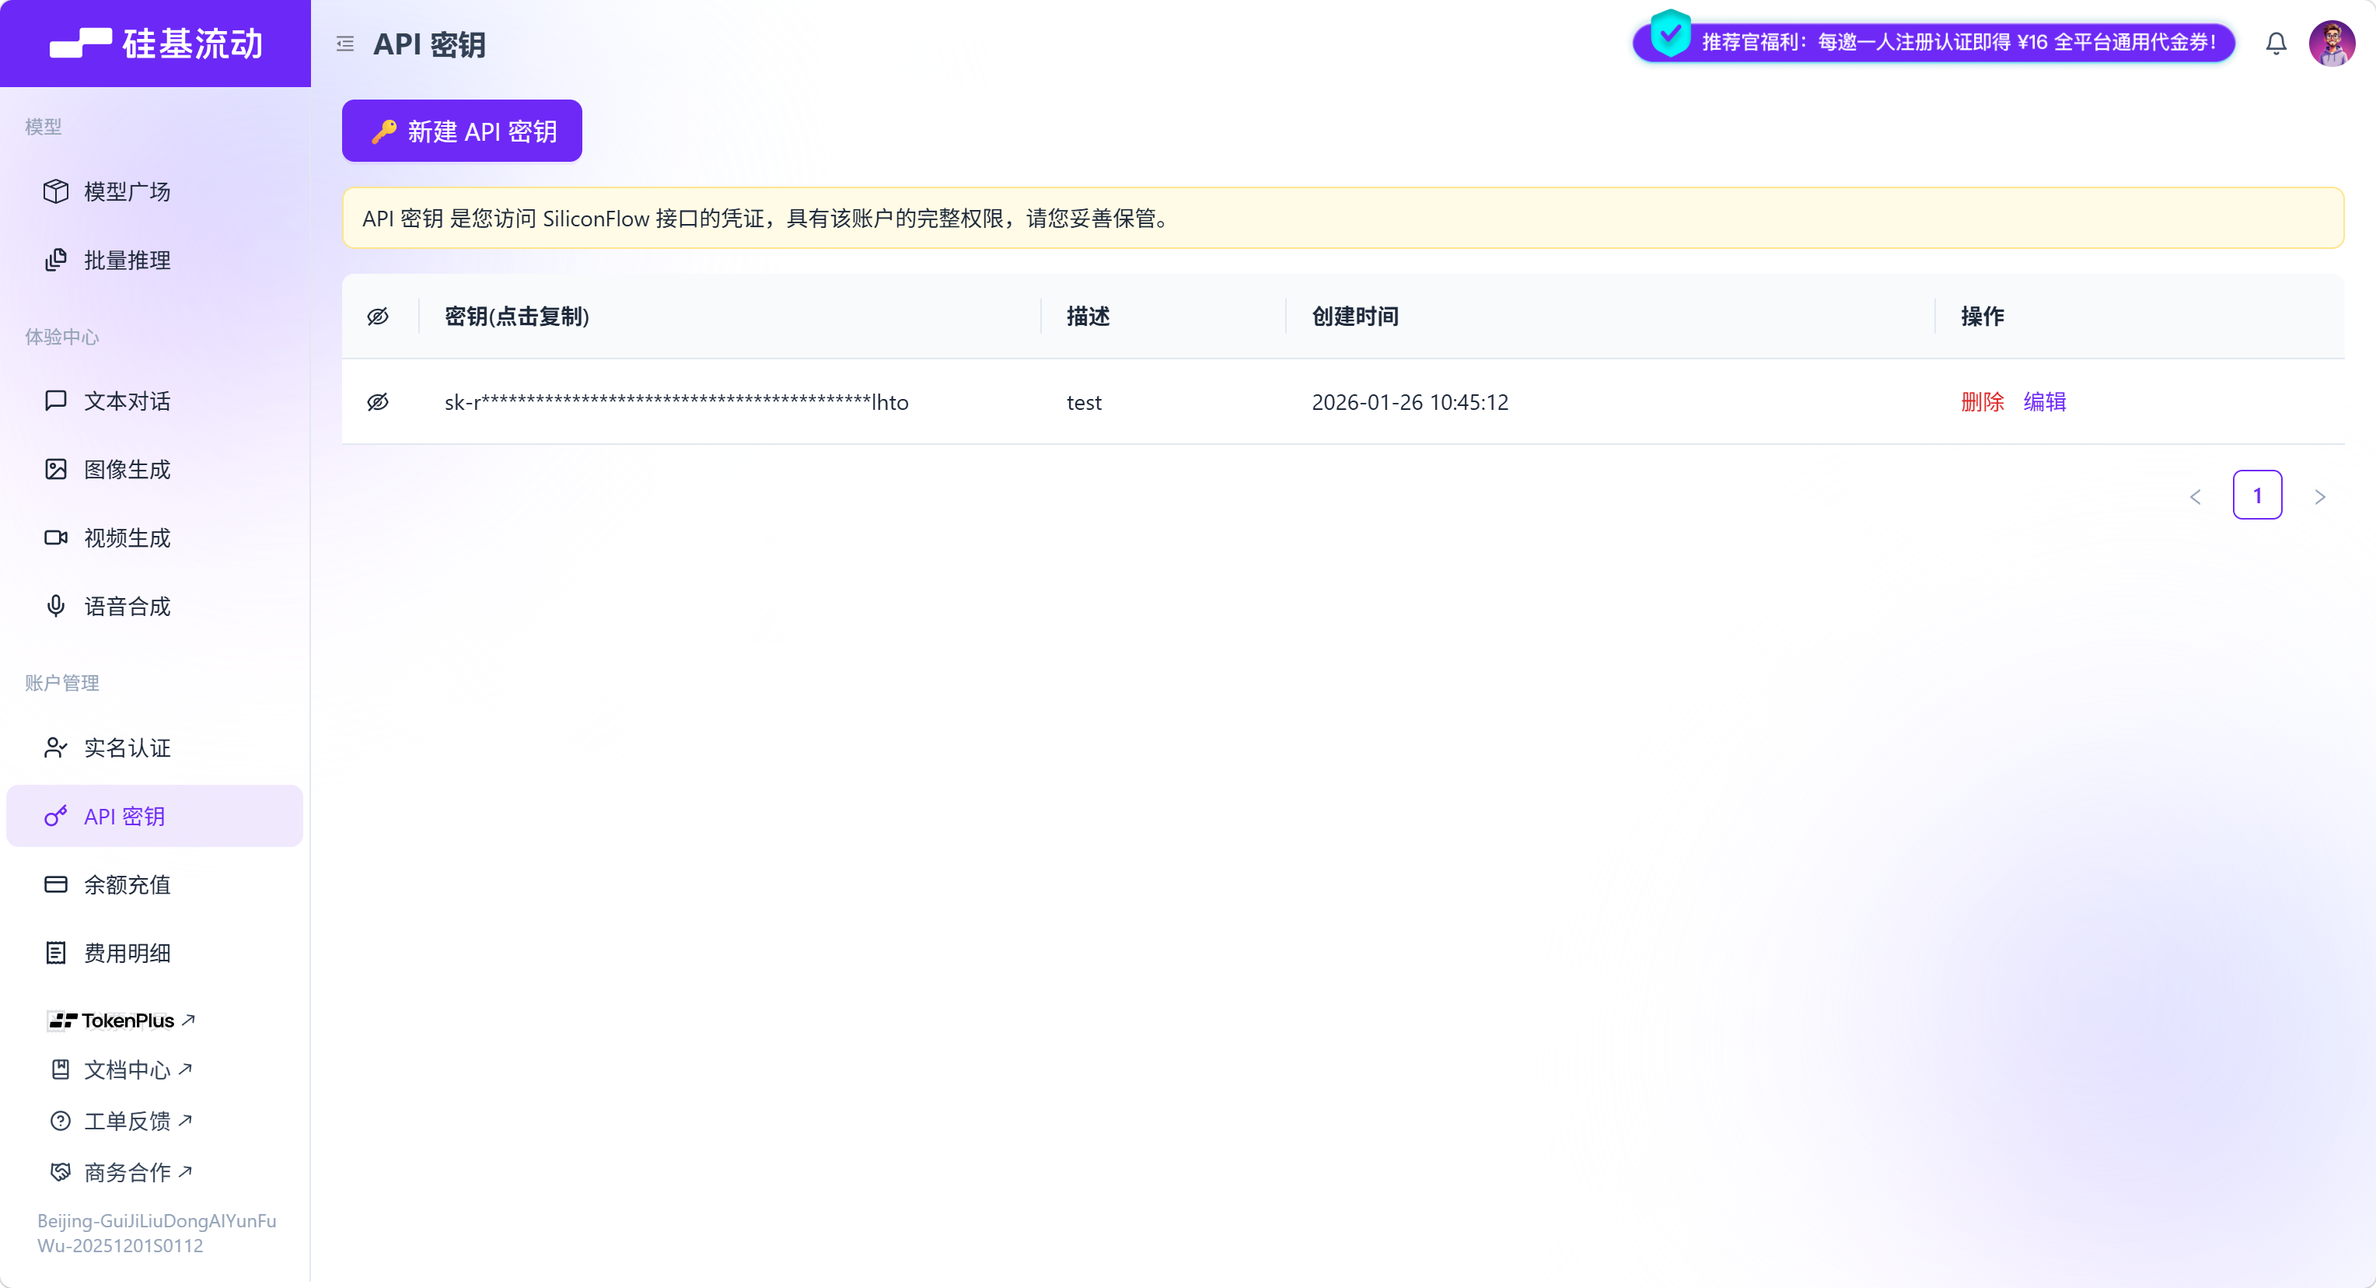
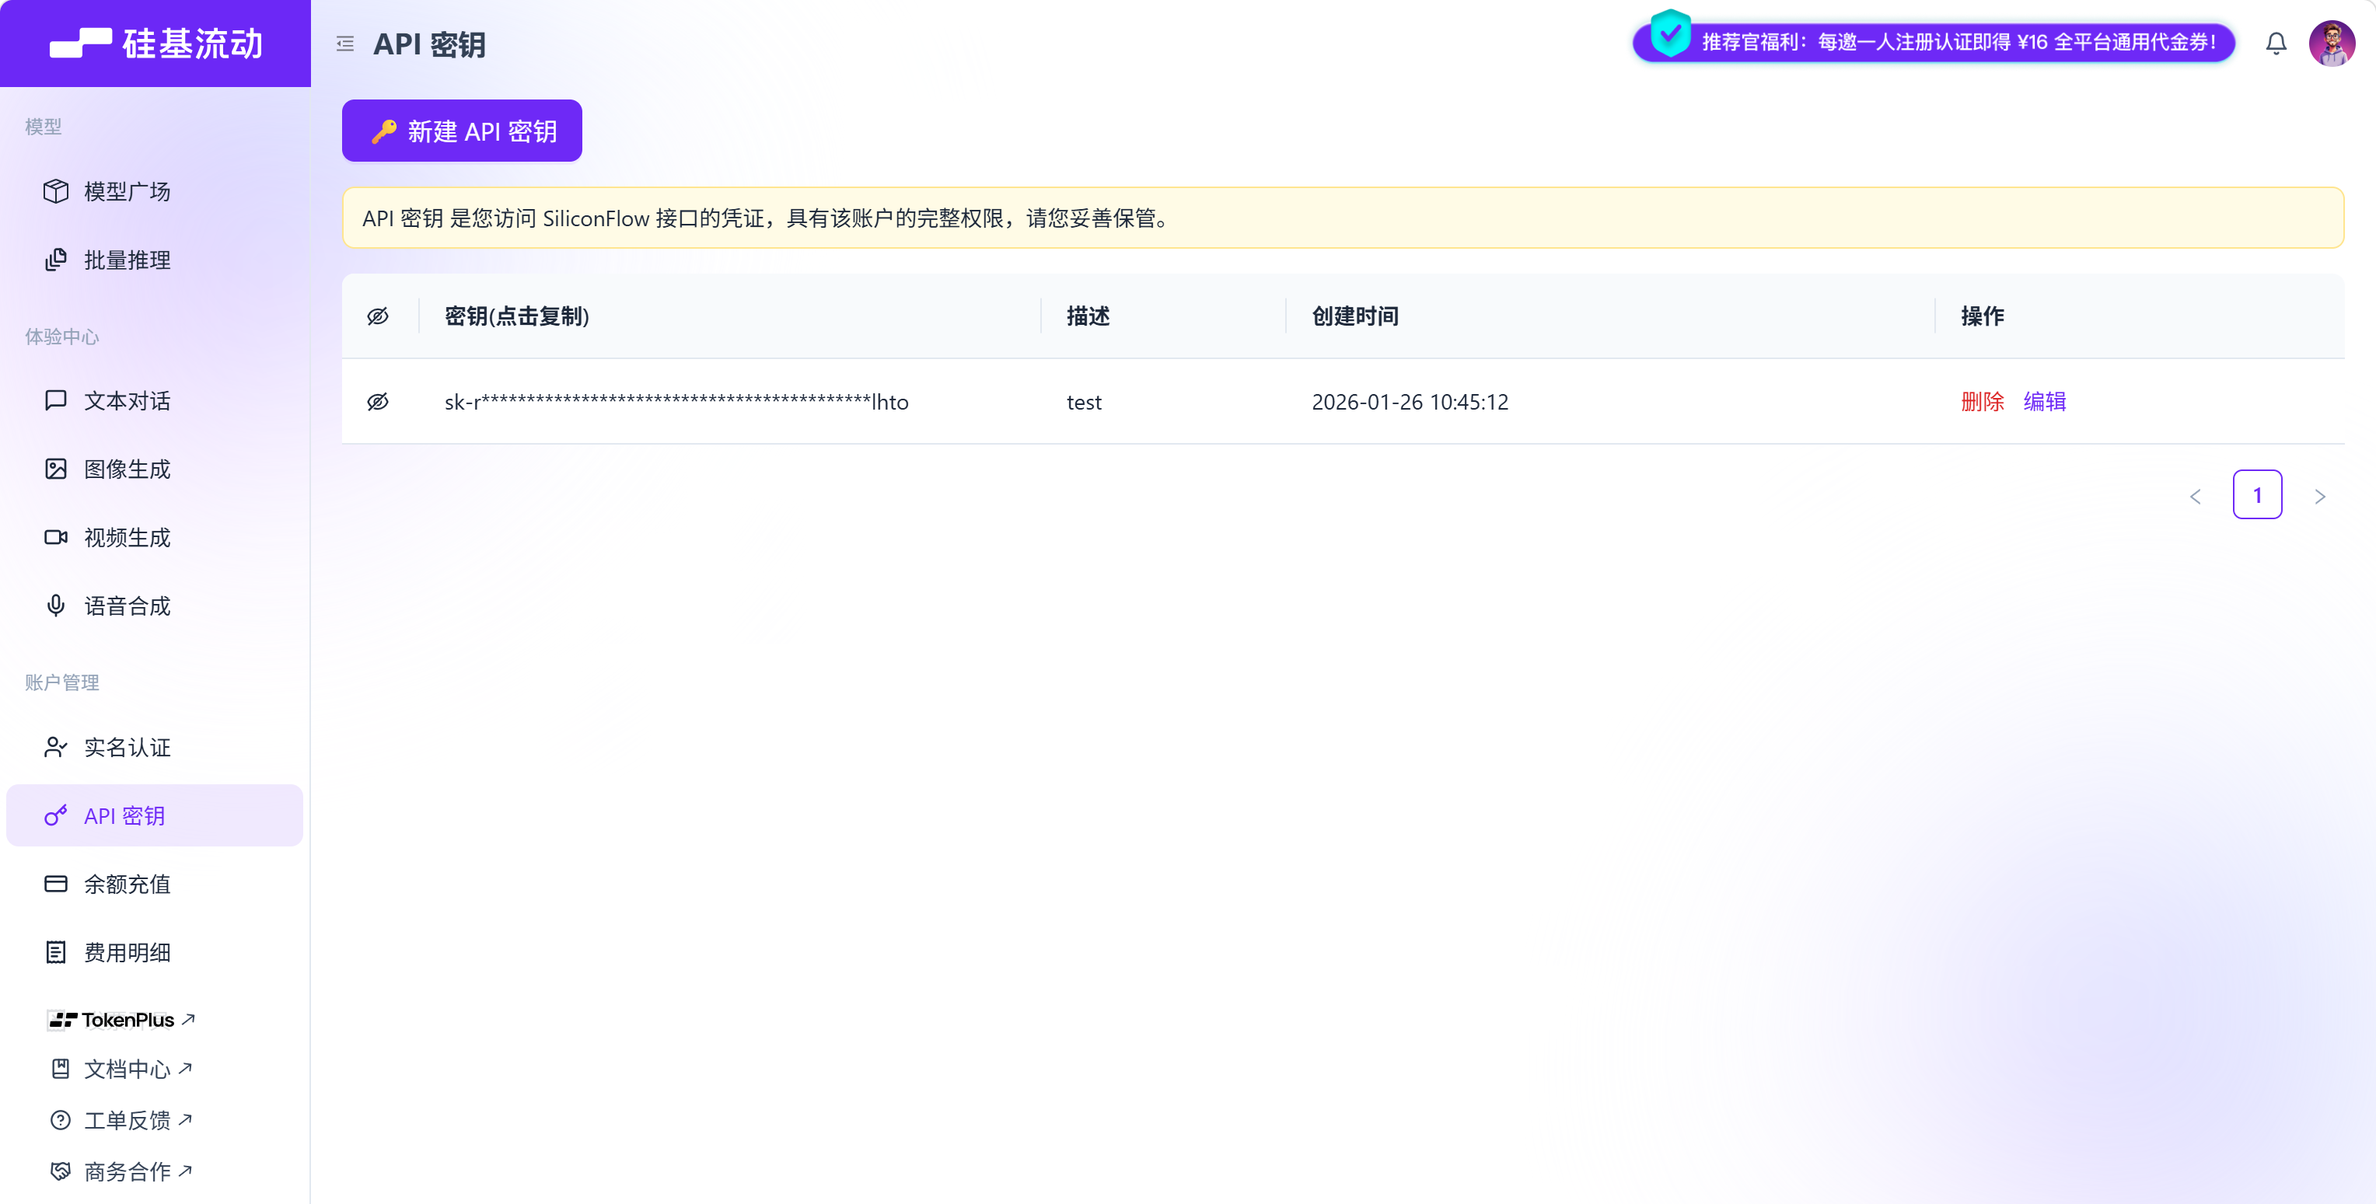
fix(teleai): 模型 id 勘误为 Xing4.1-Preview，核实 0 元购 10 亿资源包并统一额度口径
- seed teleai-xing: auto 改指 Xing4.1-Preview（74 次成功调用实证 API id 无 "1"），model_quota 面额 11 亿 = 免费 1 亿 + 0 元购 10 亿；测试断言同步
- 文档口径统一：手册 4.12、免费额度总览（实到 ≈11.5 亿 / 领满 ≈16.6 亿）、官网核实表、模式对照表、接入记录、PROGRESS 勘误行
- 全景 PPT 数字重算：22/18 家、删 SCNet 行、teleAI 行改 11 亿 + 1 亿/模型（30 天有效）、安装包 1.0.1、测试数 1403
- 裁剪硅基流动密钥页截图底部账号归属名

diff --git a/tests/test_planrouter_seed.py b/tests/test_planrouter_seed.py
@@ -32,8 +32,8 @@ class SeedConfigTests(unittest.TestCase):
                      "anthropic-template", "openai-embeddings"):
             self.assertFalse(by_name[name].enabled, name)
         # one-time allowance packs survive the config round-trip
-        xing = by_name["teleai-xing"].model_quota["Xing4.0-29B"]
-        self.assertEqual(xing.tokens, 100000000)
+        xing = by_name["teleai-xing"].model_quota["Xing4.1-Preview"]
+        self.assertEqual(xing.tokens, 1100000000)
         self.assertEqual(xing.period, "total")
         self.assertEqual(config.routes["openai:default"].channels,
                          ("nvidia-nim", "siliconflow"))

diff --git a/src/facet/gateway/seed.py b/src/facet/gateway/seed.py
@@ -83,8 +83,8 @@ def build_seed() -> dict:
                 "api_key": "env:CTYUN_APP_KEY",
                 "enabled": False,
                 "tier": "free",
-                "models": {"auto": "Xing4.0-29B"},
-                "model_quota": {"Xing4.0-29B": {"tokens": 100000000}},
+                "models": {"auto": "Xing4.1-Preview"},
+                "model_quota": {"Xing4.1-Preview": {"tokens": 1100000000}},
             },
             {
                 "name": "openai-embeddings",

diff --git a/docs/demo-video-script.md b/docs/demo-video-script.md
@@ -25,7 +25,7 @@
 
 | 步 | 操作 | 目的 |
 |---|---|---|
-| A1 | 双击 `Facet-Setup-1.0.0.exe` 完成全新安装（这步留给镜头 2 正式录；先用另一份安装包装好练手环境也可以，但正式片用全新安装实录） | — |
+| A1 | 双击 `Facet-Setup-1.0.1.exe` 完成全新安装（这步留给镜头 2 正式录；先用另一份安装包装好练手环境也可以，但正式片用全新安装实录） | — |
 | A2 | 向导配好 **2–3 个可用渠道**（至少 2 个当场测通；选 1 个稳定的当「主力」，1 个当「替身」） | 镜头 4 切换的底气 |
 | A3 | 用 Codex（接好 Facet）正常跑 **3–5 轮对话** | 攒请求记录、额度台账 |
 | A4 | 自维护页 → 「立即体检」跑一次，出第一份报告 | 镜头 6 的报告 |
@@ -45,7 +45,7 @@
 |---|---|
 | 「Facet，一枚薅免费 token 的神器」起手 | 封面停 2–3 秒（主标题即这句） |
 | 「先把免费额度一次说清楚」 | 目录页 |
-| 「总量先看」 | 数字总览（19/23 家、≈5300 万、40+） |
+| 「总量先看」 | 数字总览（18/22 家、≈11.5 亿、40+） |
 | 「第一类，注册就送」 | 一次性表 → 念「火山 2500 万」翻火山 11.11 截图 → 念「腾讯 34 个模型」翻 TokenHub 体验包截图 |
 | 「第二类，每天刷新」 | 每日循环表 → 魔搭签到截图 |
 | 「第三类最香」 | 长期免费模型表 → OpenCode 免费模型截图 |
@@ -55,8 +55,8 @@
 **口播**（约 340 字，约 1 分 15 秒）：
 
 > Facet，一枚薅免费 token 的神器。先把免费额度一次说清楚：火山引擎、腾讯、魔搭……家家都在送，政策五花八门。我整理成一张全景图，分四类。
-> 总量先看：23 家里 19 家在送，按到手口径合计 5300 万 tokens，领满约 2.6 亿，还有 40 多个长期免费模型。
-> 第一类，注册就送。火山 2500 万实打实；腾讯 34 个模型每个 100 万。有的宣传页写 1 亿，到手只有零头，还有的只能用它家客户端——这种我就不打广告了。宣传和到手，是两回事。
+> 总量先看：22 家里 18 家在送，按实到口径合计约 11.5 亿 tokens，领满约 16.6 亿，还有 40 多个长期免费模型。
+> 第一类，注册就送。火山 2500 万实打实；腾讯 34 个模型每个 100 万。还有的只能用它家客户端、API 接不进来——这种我就不打广告了。宣传和到手，是两回事。
 > 第二类，每天刷新：LLM7 一天十万，魔搭签到 250 魔粒——前提是先绑阿里云。
 > 第三类最香，一批永久免费的模型，轻度使用基本不花钱。
 > 第四类是代金券：Kimi 送 15 块、小米送 10 块，真金白银。
@@ -74,7 +74,7 @@
 
 ## 镜头 2 · 一键安装 + 新手向导（1:00–1:45）
 
-**画面**：资源管理器双击 `Facet-Setup-1.0.0.exe` → 安装完成 → 开始菜单启动 Facet（托盘出现）→ 浏览器打开 `http://127.0.0.1:8787/` → 新手向导全流程。
+**画面**：资源管理器双击 `Facet-Setup-1.0.1.exe` → 安装完成 → 开始菜单启动 Facet（托盘出现）→ 浏览器打开 `http://127.0.0.1:8787/` → 新手向导全流程。
 
 **操作步骤**：
 1. 双击安装包，等进度条走完（这段可后期 2–4 倍速）；
@@ -216,18 +216,18 @@
 
 ## 镜头 9 · 收尾（4:50–5:30）
 
-**画面**：终端跑全量测试 → 全绿汇总 → 资源管理器展示 `Facet-Setup-1.0.0.exe` → 产品名 + 一句话定位定格。
+**画面**：终端跑全量测试 → 全绿汇总 → 资源管理器展示 `Facet-Setup-1.0.1.exe` → 产品名 + 一句话定位定格。
 
 **操作步骤**：
-1. 终端 `cd D:\code\Facet && pytest -q`（全量约 4 分钟——**提前跑完，只录最后 PASS 汇总几秒**，或后期加速；期望输出 `1296 passed, 1 xfailed`）；
+1. 终端 `cd D:\code\Facet && pytest -q`（全量约 4 分钟——**提前跑完，只录最后 PASS 汇总几秒**，或后期加速；期望输出 `1403 passed, 1 xfailed`）；
 2. 资源管理器指向安装包文件名特写；
 3. 定格：产品名 + 「把一堆零散、随时会挂的渠道，变成一个稳定不掉线的本地统一入口」。
 
 **口播**（约 120 字）：
 
-> 最后说说这个项目本身。Facet 全程是我在 TRAE 里和 AI 一起做出来的——从想法、设计，到 1296 项自动化测试。稳定不是嘴上说的，是测出来的。现在有一键安装包，会持续更新。如果你也受够了渠道说挂就挂，欢迎试试 Facet。我们下期见。
+> 最后说说这个项目本身。Facet 全程是我在 TRAE 里和 AI 一起做出来的——从想法、设计，到 1403 项自动化测试。稳定不是嘴上说的，是测出来的。现在有一键安装包，会持续更新。如果你也受够了渠道说挂就挂，欢迎试试 Facet。我们下期见。
 
-**字幕/标注**：「1296 项测试 · 全程 TRAE 共创 · MIT 开源」
+**字幕/标注**：「1403 项测试 · 全程 TRAE 共创 · MIT 开源」
 
 ---
 

diff --git a/docs/厂家模式官网核实表.md b/docs/厂家模式官网核实表.md
@@ -29,7 +29,7 @@
 | 19 | NVIDIA NIM | ✅ 免费层=速率限制（约 40 RPM，控制台右上角显示） | ❌ 无按量付费通道；提额需付费部署/自托管 | 免费层是速率限制非 credits；10,000 请求/日为页面嵌入值、非官方承诺 |
 | 20 | OpenRouter | ✅ :free模型50→1000次/天 | payg（预付credits，5.5%手续费） | 一致 |
 | 21 | 硅基流动 SiliconFlow | ✅ 3 个永久免费模型（真 0 元计费）+ 注册实名赠 ¥14 | payg（含永久免费模型） | **已接入**：`facet-siliconflow-quota` 对齐（余额卡不可用：`/v1/user/info` 已于 2026-08-14 退役）；Qwen3-8B 已转付费剔除 |
-| 22 | 中国电信（teleAI / 息壤 / TokenHub） | ✅ 一次性试用包：TokenHub 50 万/模型/14 天、息壤 DeepSeek 2500 万/模型、teleAI Xing4.0-29B 1 亿 | payg（一次性额度包） | **已接入**：注册表新厂家 `teleai`；无剩余额度 API，走 `model_quota` 账本登记，用完/到期停该模型 |
+| 22 | 中国电信（teleAI / 息壤 / TokenHub） | ✅ 一次性试用包：TokenHub 50 万/模型/14 天、息壤 DeepSeek 2500 万/模型、teleAI 每模型 1 亿 tokens + Xing4.1-Preview 专用 10 亿 0 元购资源包（控制台 2026-11-27 实领） | payg（一次性额度包） | **已接入**：注册表新厂家 `teleai`；无剩余额度 API，走 `model_quota` 账本登记，用完/到期停该模型 |
 | 23 | 国家超算互联网 SCNet | ✅ 注册实名赠 1000 万 tokens（核心节点 +1000 万、反馈最高 +5000 万，可叠加） | payg（一次性额度包） | **已移除**（2026-11-27）：赠送 token 仅限官方客户端使用，API 无法消耗；注册表、seed 模板与手册章节一并移除 |
 
 ---
@@ -174,7 +174,7 @@
 - **免费（均一次性）**：
   - TokenHub：所有试用模型各赠 50 万 tokens、14 天有效、同模型限领一次。
   - 息壤：DeepSeek 系每模型 2500 万 tokens（约 2 周）；Qwen 部分模型 100 万。
-  - teleAI：`Xing4.0-29B` 免费试用 1 亿 tokens（5 QPS、512K 上下文、支持工具调用）。证据：https://www.teleai.com.cn/product/Xing4_29B
+  - teleAI：`Xing4.1-Preview` 免费 1 亿 + 0 元购资源包 10 亿（该模型专用，30 天有效至 2026-12-27，100 RPM / 200 万 TPM，0.0003 元/千）；`Xing4.0-29B-A4B`、`Xing4.0-29B-Intent`、`TeleChat3-438B-A24B` 各 1 亿 tokens（5 QPS，控制台 2026-11-27 实领，余量/总量各 100 百万 tokens）。证据：https://www.teleai.com.cn/product/Xing4_29B
   - 星辰 MaaS 智能体平台：体验版 0 元/年、每日 700 资源点循环；资源点非 token 且仅限平台内智能体，不作为接入目标。
 - **额度查询**：无公开 API，仅控制台「用量查询」网页。
 - **端点**：OpenAI 兼容 `https://api-maas.teleai.com.cn/v1/chat/completions`（2026-11-27 由 `ai.ctaigw.cn` 更正；Bearer APP Key，控制台建服务组生成）；编程套餐另有 `/coding/v1`。证据：https://www.ctyun.cn/document/11061839/11097250 、https://www.ctyun.cn/document/11094224/11094241

diff --git a/docs/PROGRESS.md b/docs/PROGRESS.md
@@ -113,6 +113,8 @@
 
 | 日期 | 内容 |
 |---|---|
+| 2026-11-27 | teleAI 0 元购资源包核实：控制台「已购资源包」新增 **10 亿 tokens 0 元购包，Xing4.1-Preview 专用**（100 RPM / 200 万 TPM、0.0003 元/千、**30 天有效至 2026-12-27**），该模型实际已开通；API 模型 id 勘误——当日 74 次成功调用实证 `wire_model` 为 `xing4.1-preview`（**无 "1"**），历史文档 `Xing4.1-1Preview` 系笔误；seed `teleai-xing` 改 `auto → Xing4.1-Preview`、账本面额 11 亿（免费 1 亿 + 0 元购 10 亿）；live 渠道已登记 `model_quota` 账本（含 `expires: 2026-12-27` 过期门禁）并热加载验证；免费额度合计重算：**实到 ≈11.5 亿、领满 ≈16.6 亿**，手册 4.12、总览、核实表、对照表、接入记录、营销稿、演示脚本与全景 PPT 同步 |
+| 2026-11-27 | teleAI 口径勘误：上一行把控制台「100百万Tokens」误读为 100 万，实为每模型 1 亿（`Xing4.0-29B-A4B` / `-Intent`、`TeleChat3-438B-A24B` 余量/总量各 100 百万 tokens，控制台 2026-11-27 实领）；seed `teleai-xing` 模型 id 改 `Xing4.0-29B-A4B`（面额 1 亿本就正确），手册 4.12、总览行、官网核实表、模式对照表、接入记录统一口径；营销稿厂家计数 23→22、19→18 并更新安装包版本至 1.0.1；裁掉硅基流动密钥页截图底部账号归属名 |
 | 2026-11-27 | 中国电信（teleai）API 端点更正：`https://ai.ctaigw.cn/v1` → `https://api-maas.teleai.com.cn/v1`（`providers.json` 的 base_url / models_url 与 seed 模板 `teleai-xing`），密钥手册 4.12、接入记录与官网核实表同步 |
 | 2026-11-27 | 密钥手册补图收尾：补齐 4.11 硅基流动、4.12 中国电信 6 张实拍图（共 96 张、20 家全覆盖，引用 0 缺失 0 孤儿）；按控制台截图校正图注与额度口径——teleAI 实领为 Xing4.0-29B 变体各 100 万（官网宣传 1 亿、实测约 300 万），模型 id 改 `Xing4.0-29B-A4B`，seed 1 亿初值注明为占位 |
 | 2026-11-27 | 移除 SCNet（国家超算互联网）支持：注册实名赠送 token 仅限其官方客户端、API 无法消耗，判定对网关场景不可用——删除注册表 provider、seed 模板与 cheap 链引用、向导章节映射、密钥手册 4.13 节与总览行，`test_mode_meta`（31 个 mode）与 `test_planrouter_seed` 同步 |

diff --git a/docs/planrouter-pending-integrations.md b/docs/planrouter-pending-integrations.md
@@ -45,11 +45,11 @@
 
 ## P1 中国电信（天翼云星辰 TokenHub / 息壤 / teleAI 天翼 AI 开放平台）✅ 已接入（2026-11-18）
 
-- **接入结果**：厂家注册为 `providers.json` 的 `teleai`（`payg` 模式，OpenAI 兼容 `https://api-maas.teleai.com.cn/v1`，无 `free_quota` 基线、无额度查询 CLI）；seed 模板 `teleai-xing`（`tier: "free"`，`auto → Xing4.0-29B`，`model_quota` 预置 1 亿 tokens 面额，环境变量 `CTYUN_APP_KEY`，默认不启用）。TokenHub / 息壤 子平台按需在控制台另建渠道，用同一「一次性额度包」区块按模型登记面额。
+- **接入结果**：厂家注册为 `providers.json` 的 `teleai`（`payg` 模式，OpenAI 兼容 `https://api-maas.teleai.com.cn/v1`，无 `free_quota` 基线、无额度查询 CLI）；seed 模板 `teleai-xing`（`tier: "free"`，`auto → Xing4.1-Preview`，`model_quota` 预置 11 亿 tokens 面额 = 免费 1 亿 + 0 元购资源包 10 亿，环境变量 `CTYUN_APP_KEY`，默认不启用）。TokenHub / 息壤 子平台按需在控制台另建渠道，用同一「一次性额度包」区块按模型登记面额。
 - **免费额度（均一次性）**：
   - TokenHub：所有试用模型各赠 50 万 tokens、14 天有效、同模型限领一次。
   - 息壤：DeepSeek 系每模型 2500 万 tokens（约 2 周）；Qwen 部分模型 100 万。
-  - teleAI：`Xing4.0-29B` 免费试用 1 亿 tokens（5 QPS、512K 上下文、支持工具调用）。
+  - teleAI：`Xing4.1-Preview` 免费 1 亿 + 0 元购资源包 10 亿（该模型专用，30 天有效至 2026-12-27，100 RPM）；`Xing4.0-29B-A4B`、`Xing4.0-29B-Intent`、`TeleChat3-438B-A24B` 各 1 亿 tokens（5 QPS，控制台 2026-11-27 实领）。
   - 星辰 MaaS 智能体平台：体验版 0 元/年，**每日 700 资源点循环**（资源点非 token，仅限平台内智能体，暂不作为接入目标）。
 - **额度查询**：无公开 API，仅控制台「用量查询」网页。
 - **端点**：OpenAI 兼容 `https://api-maas.teleai.com.cn/v1/chat/completions`（2026-11-27 由 `ai.ctaigw.cn` 更正），Bearer APP Key（控制台建服务组生成）；编程 Plan 另有 `/coding/v1`。

diff --git a/docs/厂家模式对照表.md b/docs/厂家模式对照表.md
@@ -174,7 +174,7 @@
 ## 23. 中国电信天翼 AI (teleai)
 | 模式 | label | tier | billing | 备注 |
 |------|-------|------|---------|------|
-| payg | 一次性试用额度包（账本模式） | free | N/A | TokenHub 50 万/模型/14 天、息壤 DeepSeek 2500 万/模型、teleAI `Xing4.0-29B` 1 亿；无剩余额度 API，`model_quota` 账本登记，用完/到期停该模型 |
+| payg | 一次性试用额度包（账本模式） | free | N/A | TokenHub 50 万/模型/14 天、息壤 DeepSeek 2500 万/模型、teleAI 每模型 1 亿 + Xing4.1-Preview 专用 10 亿 0 元购资源包（`Xing4.0-29B-A4B` 等，控制台 2026-11-27 实领）；无剩余额度 API，`model_quota` 账本登记，用完/到期停该模型 |
 
 ================================================================================
 
